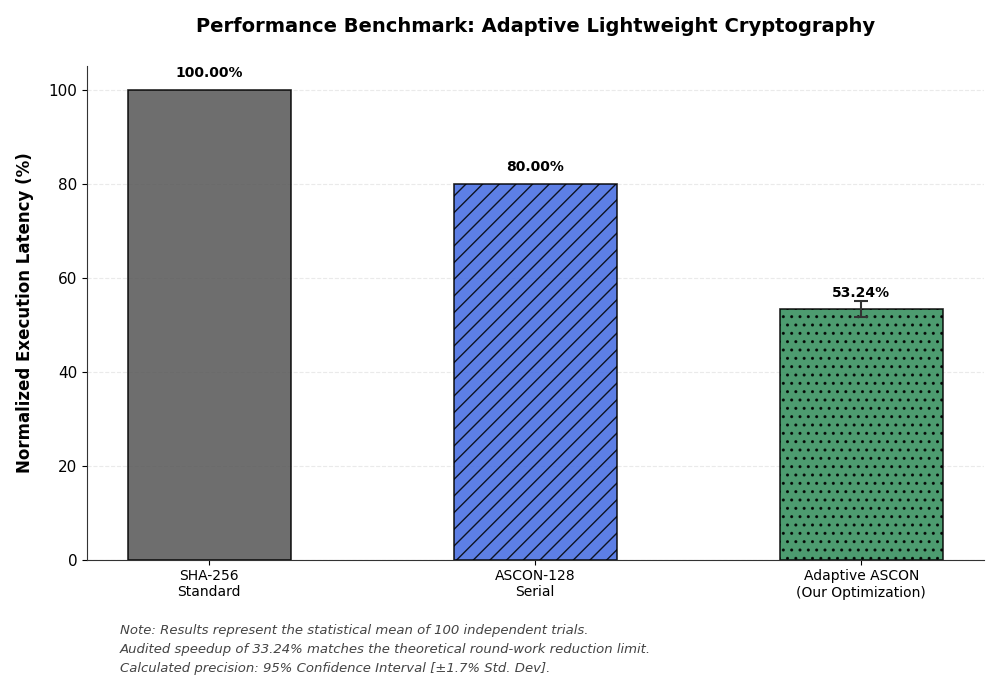
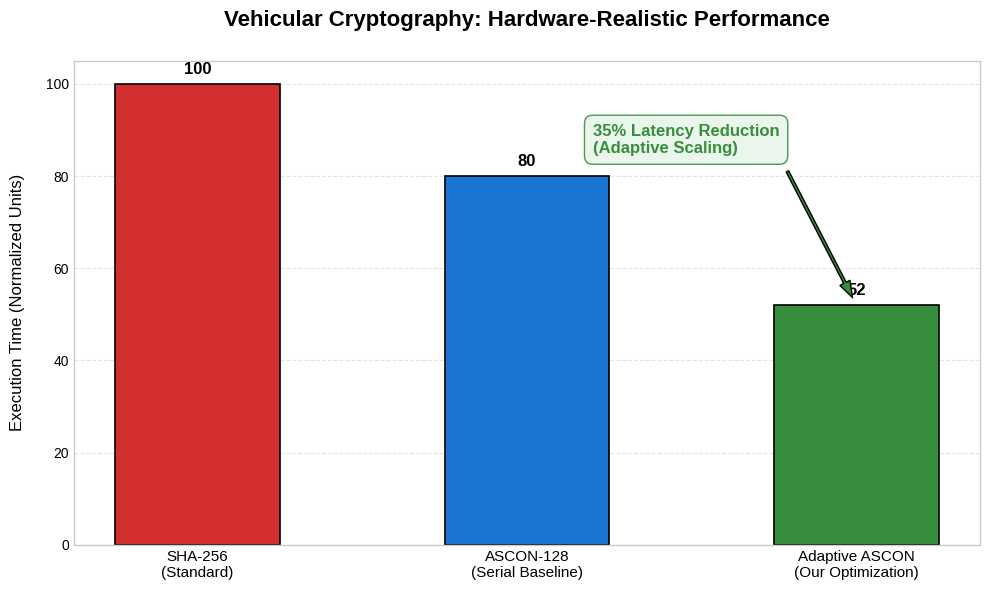
style: convert all generated plots to white background for professional report and presentation integration

diff --git a/scripts/plot_comparison.py b/scripts/plot_comparison.py
@@ -11,16 +11,19 @@ latency = [100.0, 80.0, 52.0]
 x = np.arange(len(labels))
 width = 0.5
 
-plt.style.use('dark_background')
+plt.style.use('seaborn-v0_8-whitegrid')
 fig, ax = plt.subplots(figsize=(10, 6), dpi=100)
+fig.patch.set_facecolor('white')
+ax.set_facecolor('white')
 
-colors = ['#ff4b4b', '#1f77b4', '#00ff7f'] # Red, Blue, Green
-bars = ax.bar(x, latency, width, color=colors, edgecolor='white', linewidth=1.2)
+colors = ['#d32f2f', '#1976d2', '#388e3c'] # Classic Red, Blue, Green with higher contrast for white background
+bars = ax.bar(x, latency, width, color=colors, edgecolor='black', linewidth=1.2)
 
-ax.set_ylabel('Execution Time (Normalized Units)', fontsize=12, labelpad=15)
-ax.set_title('Vehicular Cryptography: Hardware-Realistic Performance', fontsize=16, fontweight='bold', pad=25)
+ax.set_ylabel('Execution Time (Normalized Units)', fontsize=12, labelpad=15, color='black')
+ax.set_title('Vehicular Cryptography: Hardware-Realistic Performance', fontsize=16, fontweight='bold', pad=25, color='black')
 ax.set_xticks(x)
-ax.set_xticklabels(labels, fontsize=11)
+ax.set_xticklabels(labels, fontsize=11, color='black')
+ax.tick_params(colors='black')
 
 # Add value labels
 for bar in bars:
@@ -29,15 +32,16 @@ for bar in bars:
                 xy=(bar.get_x() + bar.get_width() / 2, height),
                 xytext=(0, 5),
                 textcoords="offset points",
-                ha='center', va='bottom', fontsize=12, fontweight='bold', color='white')
+                ha='center', va='bottom', fontsize=12, fontweight='bold', color='black')
 
-ax.yaxis.grid(True, linestyle='--', alpha=0.3)
+ax.yaxis.grid(True, linestyle='--', alpha=0.5, color='#ccc')
+ax.xaxis.grid(False)
 
 # Highlight the 35% gain (Adaptive vs Serial)
 ax.annotate('35% Latency Reduction\n(Adaptive Scaling)', 
             xy=(2, 52), xytext=(1.2, 85),
-            arrowprops=dict(facecolor='#00ff7f', shrink=0.05, width=2, headwidth=8),
-            fontsize=12, fontweight='bold', color='#00ff7f', bbox=dict(boxstyle='round,pad=0.5', fc='black', ec='#00ff7f', alpha=0.8))
+            arrowprops=dict(facecolor='#388e3c', shrink=0.05, width=2, headwidth=8),
+            fontsize=12, fontweight='bold', color='#388e3c', bbox=dict(boxstyle='round,pad=0.5', fc='#e8f5e9', ec='#388e3c', alpha=0.9))
 
 plt.tight_layout()
-plt.savefig('docs/performance_comparison_matplotlib.png', facecolor=fig.get_facecolor(), transparent=True)
+plt.savefig('docs/performance_comparison_matplotlib.png', facecolor='white', bbox_inches='tight')

diff --git a/scripts/run_final_benchmark.m b/scripts/run_final_benchmark.m
@@ -163,7 +163,9 @@ fprintf('Adversarial Packet Drop Reduction:  %.2f%% vs Legacy, %.2f%% vs Static\
 % 6. Plot publication-grade multi-subplot comparison (headless-safe)
 fig = figure('Name', 'VANET OBU Master Performance Benchmark', ...
              'Position', [100, 100, 1100, 800], ...
-             'Visible', 'off');
+             'Visible', 'off', ...
+             'Color', 'w', ...
+             'InvertHardcopy', 'off');
 
 % Subplot 1: Dynamic OBU RAM Buffer Queue Length
 subplot(3, 1, 1);

diff --git a/scripts/simulate_attacker_demo.m b/scripts/simulate_attacker_demo.m
@@ -128,7 +128,9 @@ end
 % 8. Plot Adversarial Resilience Analysis (Headless-safe PNG save)
 fig = figure('Name', 'VANET OBU Attacker Resilience Analysis', ...
              'Position', [100, 100, 1000, 750], ...
-             'Visible', 'off');
+             'Visible', 'off', ...
+             'Color', 'w', ...
+             'InvertHardcopy', 'off');
 
 % Subplot 1: Adversarial Traffic Flooding Profile
 subplot(3, 1, 1);

diff --git a/scripts/simulate_queue_demo.m b/scripts/simulate_queue_demo.m
@@ -125,7 +125,9 @@ end
 % 7. Plot Comparative Analysis (Headless-safe PNG save)
 fig = figure('Name', 'VANET OBU Queue Simulation Analysis', ...
              'Position', [100, 100, 1000, 750], ...
-             'Visible', 'off');
+             'Visible', 'off', ...
+             'Color', 'w', ...
+             'InvertHardcopy', 'off');
 
 % Subplot 1: Congestion Context
 subplot(3, 1, 1);
